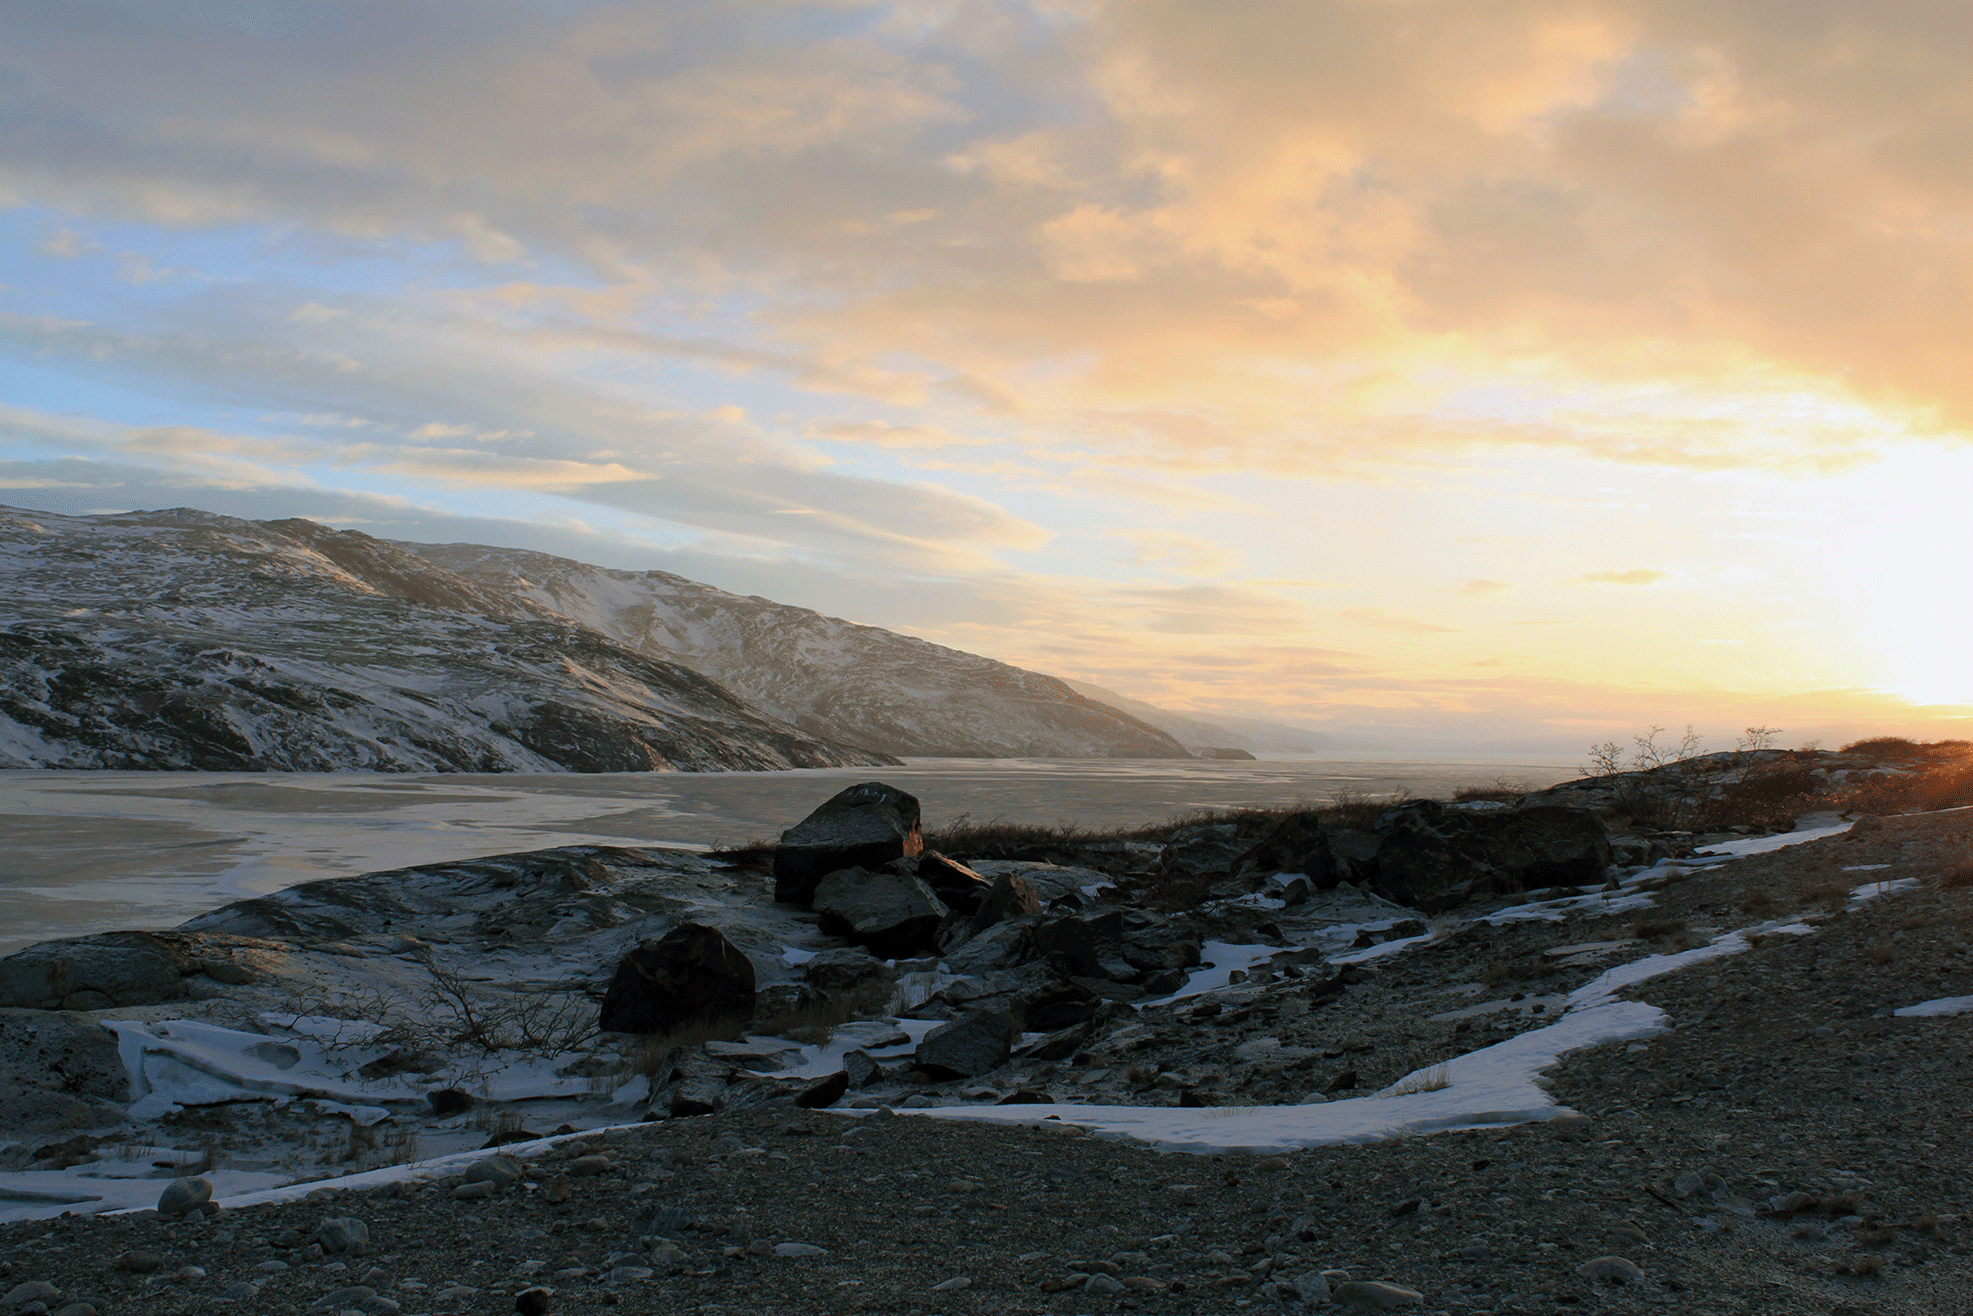
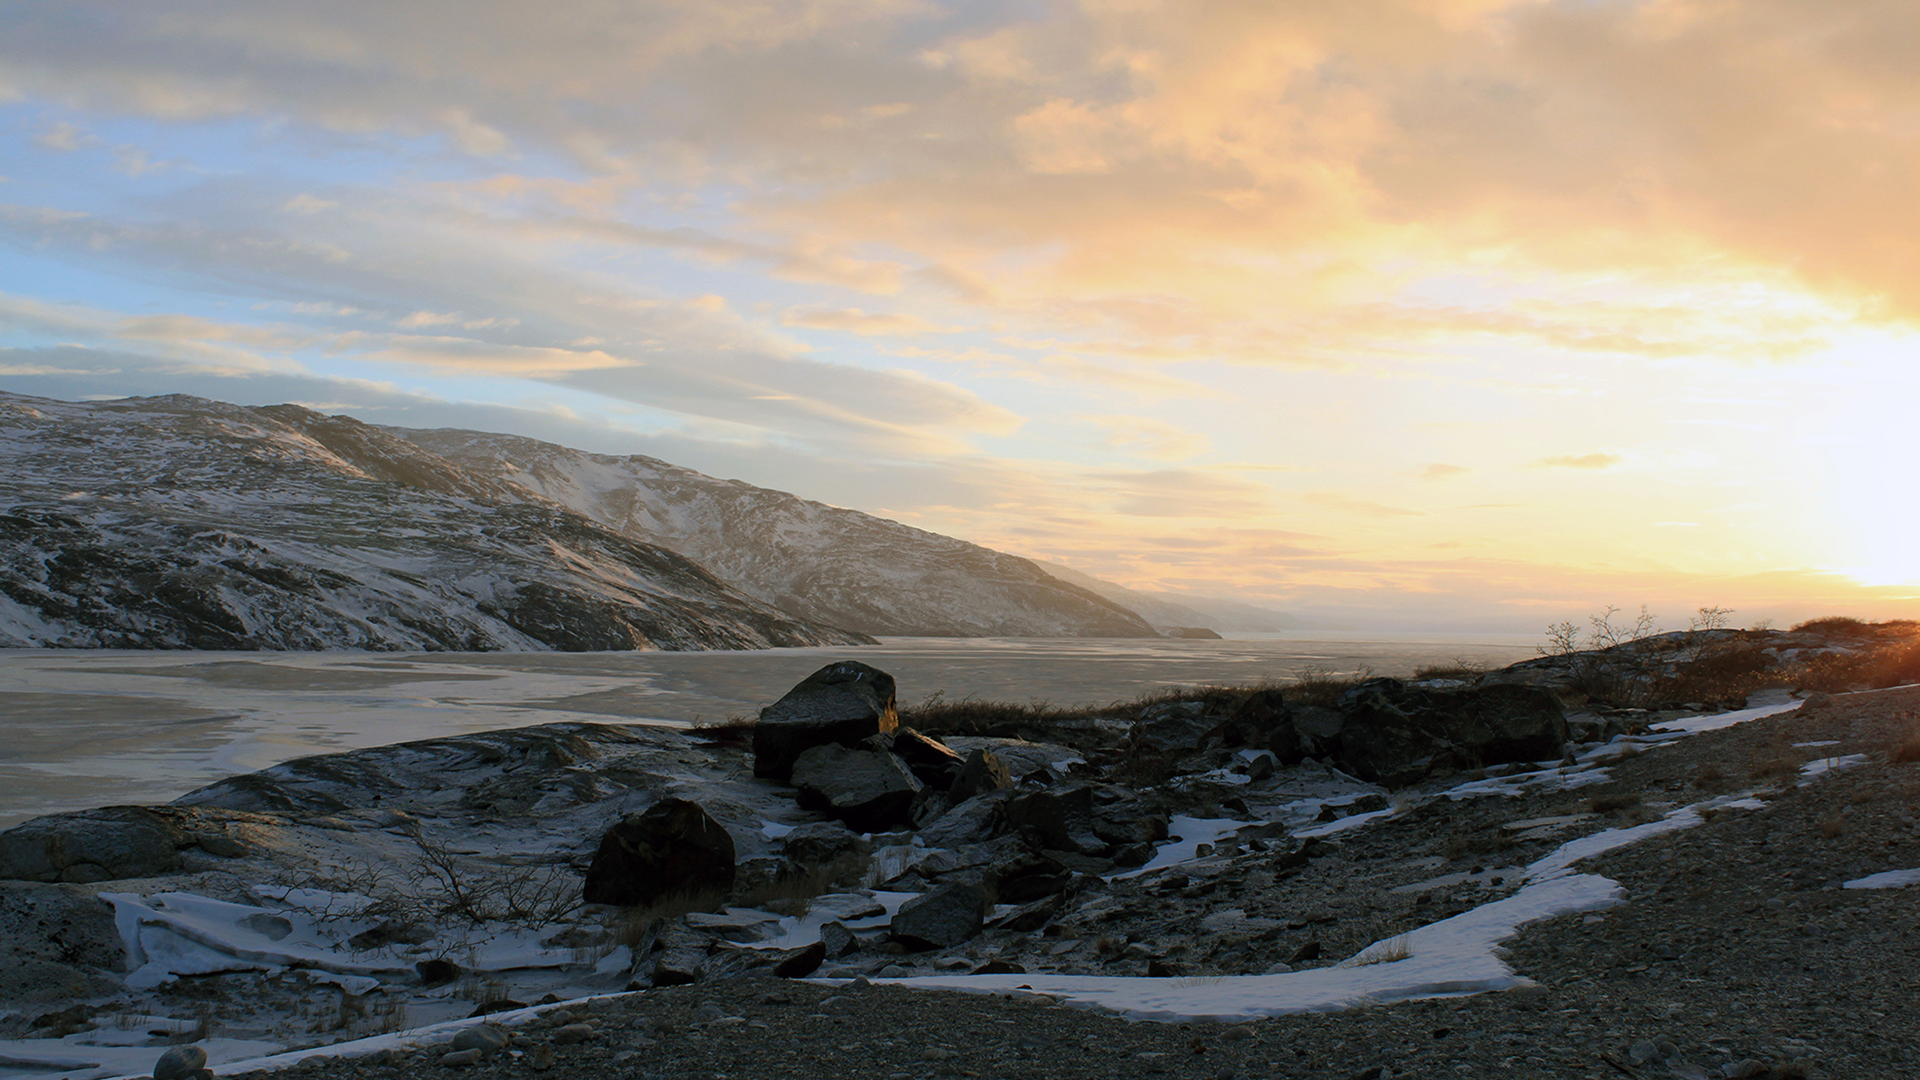
Assets all sized properly. Images all centered. Final work on about me needs to be implemented.

diff --git a/src/styles/styles.js b/src/styles/styles.js
@@ -53,31 +53,31 @@ transition: background-image 300ms ease-in-out;
   -webkit-transition: background-image 0.2s ease-out;
 transition: background-image 300ms ease-out;
   background-image: url(${bgimage});
-position: relative;
-background-size: cover;
+background-position:center;
+background-size: cover
   `};
   ${props => (props.display == 'About' || props.display == 'À Propos') && css `
   -webkit-transition: background-image 300ms ease-out;
 transition: background-image 300ms ease-out;
   background-image: url(${cover});
-position: relative;
-background-size: cover;
+background-position:center;
+background-size:cover;
 
   `};
     ${props => (props.display == 'Portfolio' || props.display == 'Réalisations') && css `
   -webkit-transition: background-image 300ms ease-out;
 transition: background-image 300ms ease-out;
   background-image: url(${portfolio});
-position: relative;
-background-size: cover;
+background-position:center;
+background-size:cover;
 
   `};
     ${props => (props.display == 'Contact') && css `
   -webkit-transition: background-image 0.2s ease-in-out;
-transition: background-image 0.2s ease-in-out;
+transition: background-image 0.2s ease-in-out ;
   background-image: url(${contact});
-position: relative;
-background-size: cover;
+background-position:center;
+background-size:cover;
 
   `};
 
@@ -87,7 +87,7 @@ background-size: cover;
 
     `};
 @media (max-width: 700px) {
-background-size: contain no-repeat;
+background-size: cover;
 width:auto;
 height: 40%;
 }

diff --git a/index.html b/index.html
@@ -8,6 +8,6 @@
   <body>
     <div id="container"></div>
   </body>
-  <script src="./bundle.js"></script>
+  <script src="assets/bundle.js"></script>
   <!-- For Prod Build, please make src above ='./bundle.js' -->
 </html>
